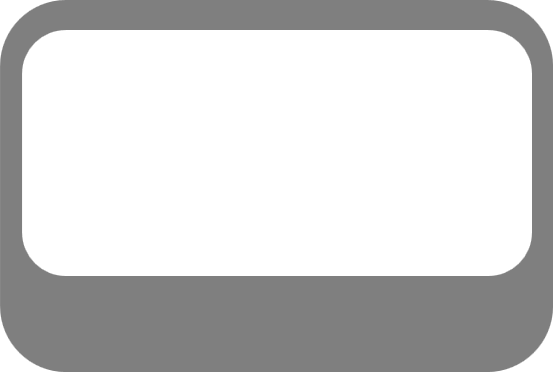
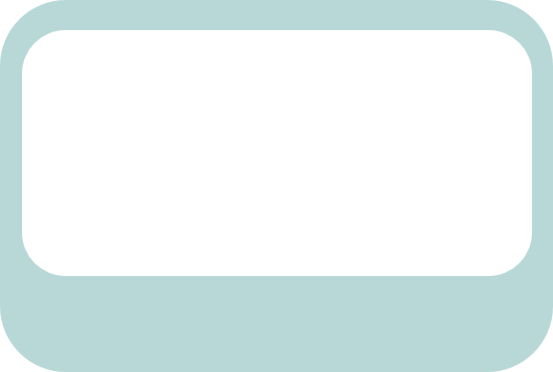
이쁜색 추가, 버튼 효과 추가

diff --git a/src/index.css b/src/index.css
@@ -1,10 +1,7 @@
 body {
   font-family: '나눔스퀘어 네오 OTF ExtraBold';
-  font-size: 20px;
-  line-height: 24px;
-  color: #333;
-  background: #ececec;
-  overflow-y: scroll;
+  background: #EEF5DB;
+  margin: 0px;
   -ms-overflow-style: none;
 }
 
@@ -39,8 +36,9 @@ body *{
 }
 
 .title-bar{
-  background: #e6e7e9;
-  color: #2c2c3d;
+  font-family: '나눔스퀘어 네오 OTF ExtraBold';
+  background: #4F6367;
+  color: #B8D8D8;
   font-size: 30px;
 }
 
@@ -68,11 +66,15 @@ body *{
 
 .btn {
   border-style: hidden;
-  width: 25px;
-  height: 25px;
+  width: 30px;
+  height: 30px;
   transition: all 0.2s;
 }
 
 .btn:hover {
-  
+  background-color: #2c2c3d;
+}
+
+.btn.btn.exit-button:hover {
+  background-color: #FE5F55;
 }
